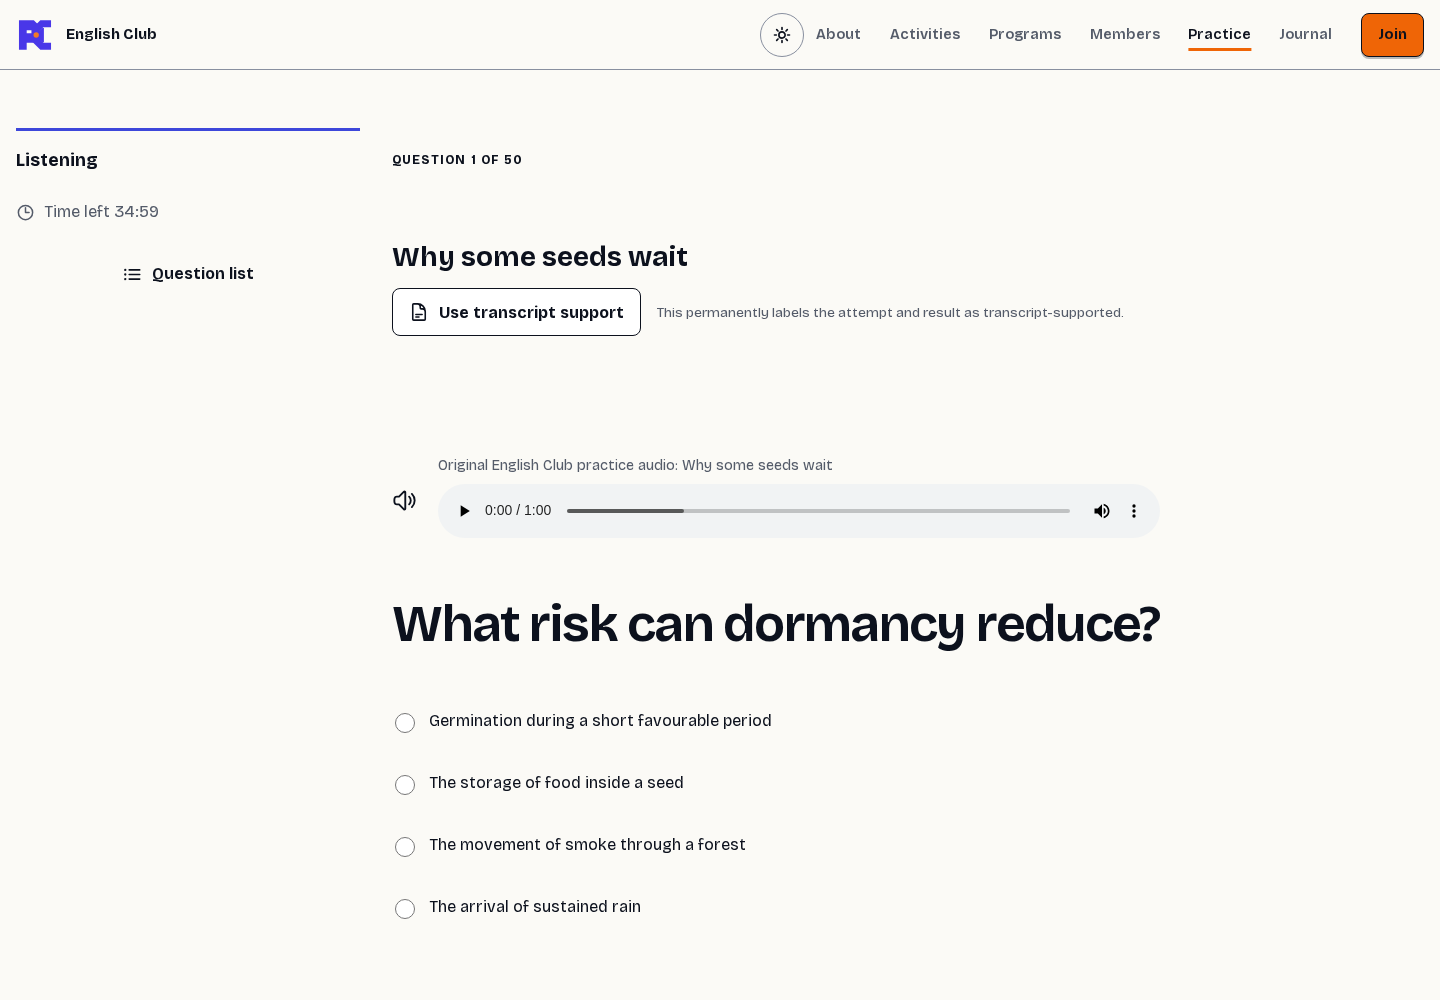
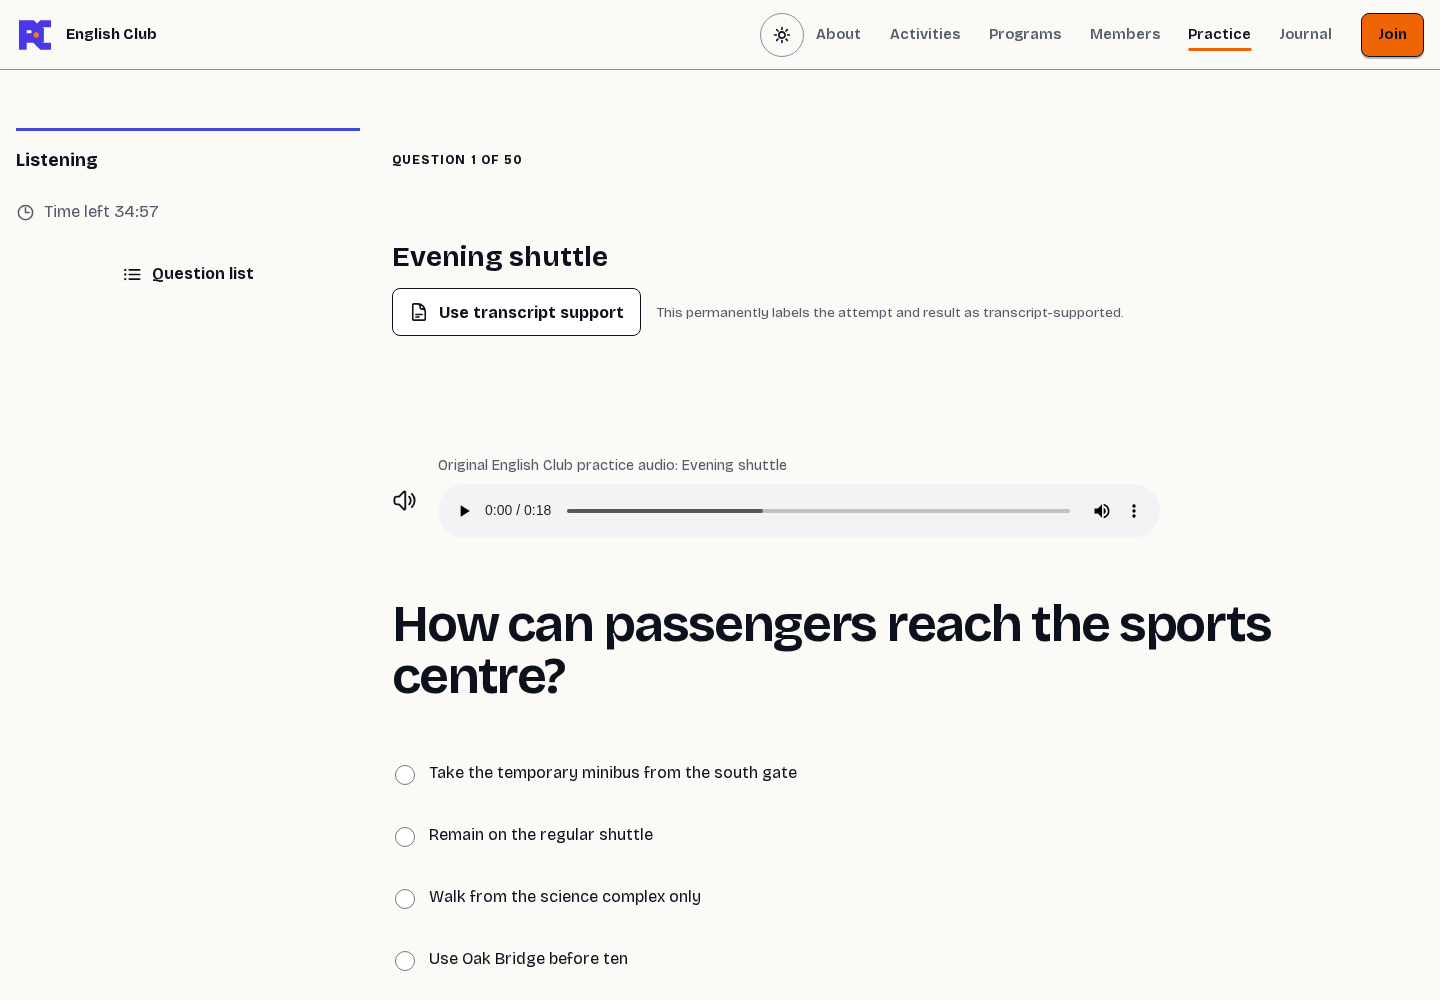
fix: share question bank across practice formats

Changed region(s): [[0.2812, 0.589, 0.9062, 0.961], [0.2812, 0.248, 0.4688, 0.279], [0.4688, 0.465, 0.5312, 0.527]]

diff --git a/tests/convex/assessment-seed.test.ts b/tests/convex/assessment-seed.test.ts
@@ -536,6 +536,9 @@ describe("paper-based assessment seed", () => {
         skill: "reading",
       },
     ] as const;
+    const owner = t.withIdentity({
+      tokenIdentifier: "https://example.test|seed-owner",
+    });
     for (const format of quickFormats) {
       const quick = await t.run(async (ctx) => {
         const definition = await ctx.db
@@ -564,6 +567,26 @@ describe("paper-based assessment seed", () => {
           itemCount: sections[0].itemCount,
         };
       });
+      const quickPool = await owner.query(
+        api.adminAssessmentPools.getOverview,
+        { definitionId: quick.definitionId },
+      );
+      expect(quickPool?.sections).toEqual([
+        expect.objectContaining({
+          skill: format.skill,
+          requiredCount: quick.itemCount,
+          allowedCount: expect.any(Number),
+        }),
+      ]);
+      expect(quickPool?.sections[0].allowedCount).toBeGreaterThan(
+        quick.itemCount,
+      );
+      expect(
+        quickPool?.questions.filter(
+          (question) =>
+            question.skill === format.skill && question.allowedByDefault,
+        ).length,
+      ).toBeGreaterThan(quick.itemCount);
       const quickAttempt = await learner.mutation(api.assessmentAttempts.start, {
         definitionId: quick.definitionId,
         versionId: quick.versionId,
@@ -595,6 +618,9 @@ describe("paper-based assessment seed", () => {
               skill: question.skill,
               taskFamily: question.taskFamily,
               sourceItemMatches: question.sourceItemId === entry.itemId,
+              sourceDefinitionMatchesFormat:
+                question.sourceDefinitionId === quick.definitionId,
+              contentFingerprint: question.contentFingerprint,
             };
           }),
         ),
@@ -606,6 +632,16 @@ describe("paper-based assessment seed", () => {
             entry.sourceItemMatches &&
             isTaskFamilyForSkill(entry.skill, entry.taskFamily),
           ),
+      ).toBe(true);
+      expect(
+        new Set(
+          quickManifestAudit.map((entry) => entry.contentFingerprint),
+        ).size,
+      ).toBe(quick.itemCount);
+      expect(
+        quickManifestAudit.some(
+          (entry) => !entry.sourceDefinitionMatchesFormat,
+        ),
       ).toBe(true);
       const quickBegun = await learner.mutation(
         api.assessmentAttempts.beginSection,
@@ -630,14 +666,49 @@ describe("paper-based assessment seed", () => {
         objective: { possible: quick.itemCount },
         estimate: null,
       });
+
+      if (format.skill === "reading") {
+        const firstPinnedItems = quickManifest.map((entry) => entry.itemId);
+        const secondQuickAttempt = await learner.mutation(
+          api.assessmentAttempts.start,
+          {
+            definitionId: quick.definitionId,
+            versionId: quick.versionId,
+            timingMode: "standard",
+            timeMultiplier: 1,
+            listeningMode: "audio-primary",
+            startRequestId: "random-reading-attempt-0002",
+          },
+        );
+        const secondQuickManifest = await t.run(async (ctx) =>
+          await ctx.db
+            .query("assessmentAttemptItems")
+            .withIndex("by_attempt_id_and_section_id_and_order", (q) =>
+              q.eq("attemptId", secondQuickAttempt.attemptId),
+            )
+            .take(quick.itemCount + 1),
+        );
+        expect(secondQuickManifest).toHaveLength(quick.itemCount);
+        expect(secondQuickManifest.map((entry) => entry.itemId)).not.toEqual(
+          firstPinnedItems,
+        );
+        const firstManifestAfterSecondStart = await t.run(async (ctx) =>
+          await ctx.db
+            .query("assessmentAttemptItems")
+            .withIndex("by_attempt_id_and_section_id_and_order", (q) =>
+              q.eq("attemptId", quickAttempt.attemptId),
+            )
+            .take(quick.itemCount + 1),
+        );
+        expect(
+          firstManifestAfterSecondStart.map((entry) => entry.itemId),
+        ).toEqual(firstPinnedItems);
+      }
     }
 
     await expect(
       t.query(api.adminAssessmentQuestionBank.getSummary, {}),
     ).rejects.toThrow();
-    const owner = t.withIdentity({
-      tokenIdentifier: "https://example.test|seed-owner",
-    });
     const page = await owner.query(api.adminAssessmentQuestionBank.listPage, {
       status: "ready",
       skill: "reading",

diff --git a/convex/adminAssessmentPools.ts b/convex/adminAssessmentPools.ts
@@ -20,6 +20,7 @@ import {
 import {
   isRandomBankSection,
   listEligibleBankQuestionsForSection,
+  questionAllowedByDefaultForFormat,
   questionBankRowIsReadyForSelection,
 } from "./lib/assessmentQuestionBank";
 import { requireAdmin, writeAuditEvent } from "./lib/adminAuth";
@@ -114,16 +115,6 @@ type PoolQuestionView = {
     reviewedAt: number | null;
   };
 };
-
-function allowedByDefault(
-  definition: Doc<"assessmentDefinitions">,
-  question: Doc<"assessmentQuestionBank">,
-) {
-  if (question.status !== "ready") return false;
-  return definition.kind === "full-practice"
-    ? true
-    : question.sourceDefinitionId === definition._id;
-}
 
 function isLegacyClonedPoolSection(section: Doc<"assessmentSections">) {
   return (
@@ -352,7 +343,7 @@ export const getOverview = query({
         allowedByDefault: group.some(
           (candidate) =>
             readyForSelectionIds.has(candidate._id) &&
-            allowedByDefault(definition, candidate),
+            questionAllowedByDefaultForFormat(definition, candidate),
         ),
         ruleState,
         effectiveAllowed: effectivelyAllowedFingerprints.has(
@@ -521,7 +512,7 @@ export const setQuestionAllowed = mutation({
       groupIds.has(rule.bankQuestionId),
     );
     const inherited = readyQuestionGroup.some((candidate) =>
-      allowedByDefault(definition, candidate),
+      questionAllowedByDefaultForFormat(definition, candidate),
     );
     const current = existingRules.some((rule) => !rule.allowed)
       ? false

diff --git a/convex/lib/assessmentQuestionBank.ts b/convex/lib/assessmentQuestionBank.ts
@@ -282,6 +282,23 @@ export async function questionBankRowIsReadyForSelection(
   );
 }
 
+/**
+ * Defines the inherited Practice Format rule before an administrator adds an
+ * explicit allow/disable override. Full and quick formats share the same
+ * reviewed bank for their profile; the section query applies the exact skill
+ * boundary before this rule is evaluated.
+ */
+export function questionAllowedByDefaultForFormat(
+  definition: Doc<"assessmentDefinitions">,
+  question: Doc<"assessmentQuestionBank">,
+) {
+  return (
+    definition.kind !== "club-program-quiz" &&
+    definition.profile === question.profile &&
+    question.status === "ready"
+  );
+}
+
 export function isRandomBankSection(section: Doc<"assessmentSections">) {
   return section.deliveryMode === "random-bank";
 }
@@ -484,10 +501,10 @@ export async function listEligibleBankQuestionsForSection(
       String(left._id).localeCompare(String(right._id)),
   );
   for (const row of orderedRows) {
-    const allowedByDefault =
-      definition.kind === "full-practice"
-        ? true
-        : row.sourceDefinitionId === definition._id;
+    const allowedByDefault = questionAllowedByDefaultForFormat(
+      definition,
+      row,
+    );
     if (!(ruleByFingerprint.get(row.contentFingerprint) ?? allowedByDefault)) {
       continue;
     }

diff --git a/docs/PRACTICE-RANDOM-BANK-CONTRACT.md b/docs/PRACTICE-RANDOM-BANK-CONTRACT.md
@@ -1,0 +1,85 @@
+# Practice Random Question Bank Contract
+
+Date: 28 August 2026
+Scope: public Full Practice, public Quick Practice, Practice Format controls, and immutable live-session delivery
+
+## Outcome
+
+Full Practice and every Quick Practice format now draw from the same reviewed Question Bank for their assessment profile. A section can only draw questions whose skill matches that section. Quick Reading cannot receive Listening or Structure questions, and the same boundary applies to every other format.
+
+The public route does not choose questions in the browser. It resolves one published Practice Format and sends its exact definition and version to the authenticated Convex start mutation. Convex builds the random manifest, validates it, and writes it to the attempt before the learner enters the first question.
+
+## Default and override rules
+
+A Question Bank row is inherited by a Practice Format when all of these conditions hold:
+
+- the format is a Full or Quick practice format, not the Home programme quiz;
+- the bank row is `Ready`;
+- the format and bank row use the same assessment profile;
+- the section and bank row use the same skill;
+- the task family belongs to that skill;
+- the source item, private answer key, source version, and source section are intact;
+- Listening rows have a verified, ready audio derivative;
+- any referenced illustration is safe for public delivery.
+
+Practice Format rules are evaluated after that inherited default. An explicit disable wins for every duplicate fingerprint. An explicit allow can restore a compatible reviewed question. Returning a rule to inherit removes the exception.
+
+Rows imported as `Paused` remain visible to administrators but never enter a live session until they are reviewed and marked `Ready`.
+
+## Structured random selection
+
+For each random-bank section, Convex:
+
+1. reads a bounded, indexed candidate set for the exact profile, status, and skill;
+2. applies Practice Format overrides;
+3. verifies source, answer-key, task-family, and media integrity;
+4. collapses duplicate content fingerprints;
+5. shuffles the eligible set with Fisher-Yates;
+6. takes exactly the section quota;
+7. validates the selected count, skill, task family, and fingerprint uniqueness;
+8. stores the selection in `assessmentAttemptItems` with selection contract `1`.
+
+The stored rows pin the source item, bank question, optional illustration, optional audio, section, and order. Editing the bank or starting another attempt cannot redraw an existing attempt.
+
+Current published paper-format quotas are:
+
+| Format | Listening | Structure | Reading |
+| --- | ---: | ---: | ---: |
+| Full Practice | 50 | 40 | 50 |
+| Quick Listening | 8 | 0 | 0 |
+| Quick Structure | 0 | 8 | 0 |
+| Quick Reading | 0 | 0 | 8 |
+
+The quotas belong to the published Practice Format. Bank capacity can be larger and is expected to grow.
+
+## Public integration path
+
+```text
+/practice
+  -> published Practice Format summary from Convex
+  -> /practice/full or /practice/quick/{skill}
+  -> anonymous Convex Auth identity on Start
+  -> assessmentAttempts.start(definitionId, versionId, preferences)
+  -> server-side eligible pool and random selection
+  -> immutable assessmentAttemptItems manifest
+  -> /practice/attempt/{attemptId}
+  -> player reads only the pinned manifest
+```
+
+## Verification
+
+The Convex regression in `tests/convex/assessment-seed.test.ts` proves:
+
+- Full Practice receives 140 unique bank questions in the required 50/40/50 structure;
+- every Quick Practice receives exactly eight questions from its matching skill;
+- Quick manifests include compatible reviewed questions beyond the eight questions originally authored inside that Quick format;
+- no selected manifest contains duplicate fingerprints;
+- source items and task families match their bank records;
+- two Reading Quick attempts receive different manifests;
+- starting the second attempt does not alter the first manifest;
+- unauthenticated starts are rejected;
+- a repeated start request returns the same attempt rather than creating a new draw.
+
+The development deployment verifier reported 164 `Ready` rows: 58 Listening, 48 Structure, and 58 Reading. The published formats contain six random-bank sections and retain their exact 50/40/50 Full quotas.
+
+Post-push browser verification covered Full, Quick Listening, Quick Structure, and Quick Reading on desktop, Pixel 7, and 320-pixel viewports. All six Full/Quick project cases passed against `perfect-greyhound-270`. The run used the existing Next server on port 3987; it did not restart or replace that process.
